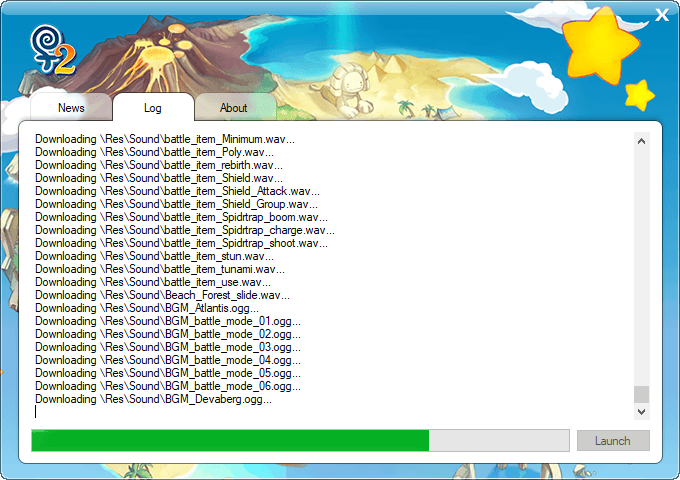
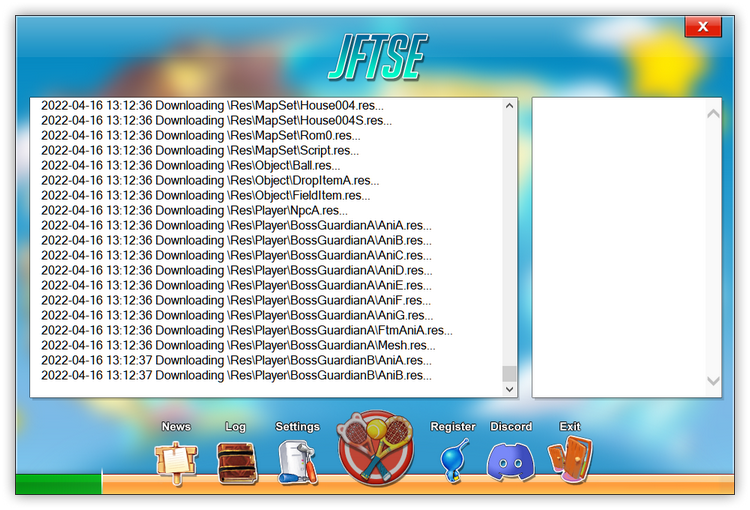
Updated README and screenshot

diff --git a/README.md b/README.md
@@ -6,7 +6,7 @@ The **FT Launcher** is an open source project to replace the original launcher/p
 
 It is heavily inspired by the discontinued **Phoenix Fastload Advanced** launcher, that I released in 2009 when the game was still active.
 
-As a result of the [JFTSE - Java Fantasy Tennis Server Emulator](https://github.com/sstokic-tgm/JFTSE) progress, I completely rebuild the launchers core functions using C# and Windows Forms while also keeping its original style.
+As a result of the [JFTSE - Java Fantasy Tennis Server Emulator](https://github.com/sstokic-tgm/JFTSE) progress, I completely rebuild the launchers core functions using C# and Windows Forms while also keeping its original style for the first releases.
 
 ![FT Launcher Screenshot](misc/launcher-screenshot.png)
 
@@ -37,7 +37,7 @@ In the `<downloadUrls>` section, you can add **up to 5** different updates serve
 
 The launcher checks the `<updateUrl>/files.md5` to determine which local files (relative to the launcher path) are missing or needed to be updated. Therefore, you need to upload all game/application files to a remote webserver along with the checksum file.
 
-You can generate the files.md5 by launching the FT_Launcher.exe **while holding the *Shift*-Key**. You will see an additional button "Create Checksum" that lets you select a directory and build the files.md5 for you. Alternatively, you can drag a directory into the FT_Launcher.exe or pass its path via a command line argument.
+You can generate the files.md5 by dragging a directory into the FT_Launcher.exe or execute it with the directory path as a command line argument. Alternatively, you can start the application **while holding the *Shift*-Key**. You will see an additional button "Create Checksum" that lets you select a directory and build the files.md5 for you.
 
 The launcher can also update itself, if it is part of the checksum list.
 
